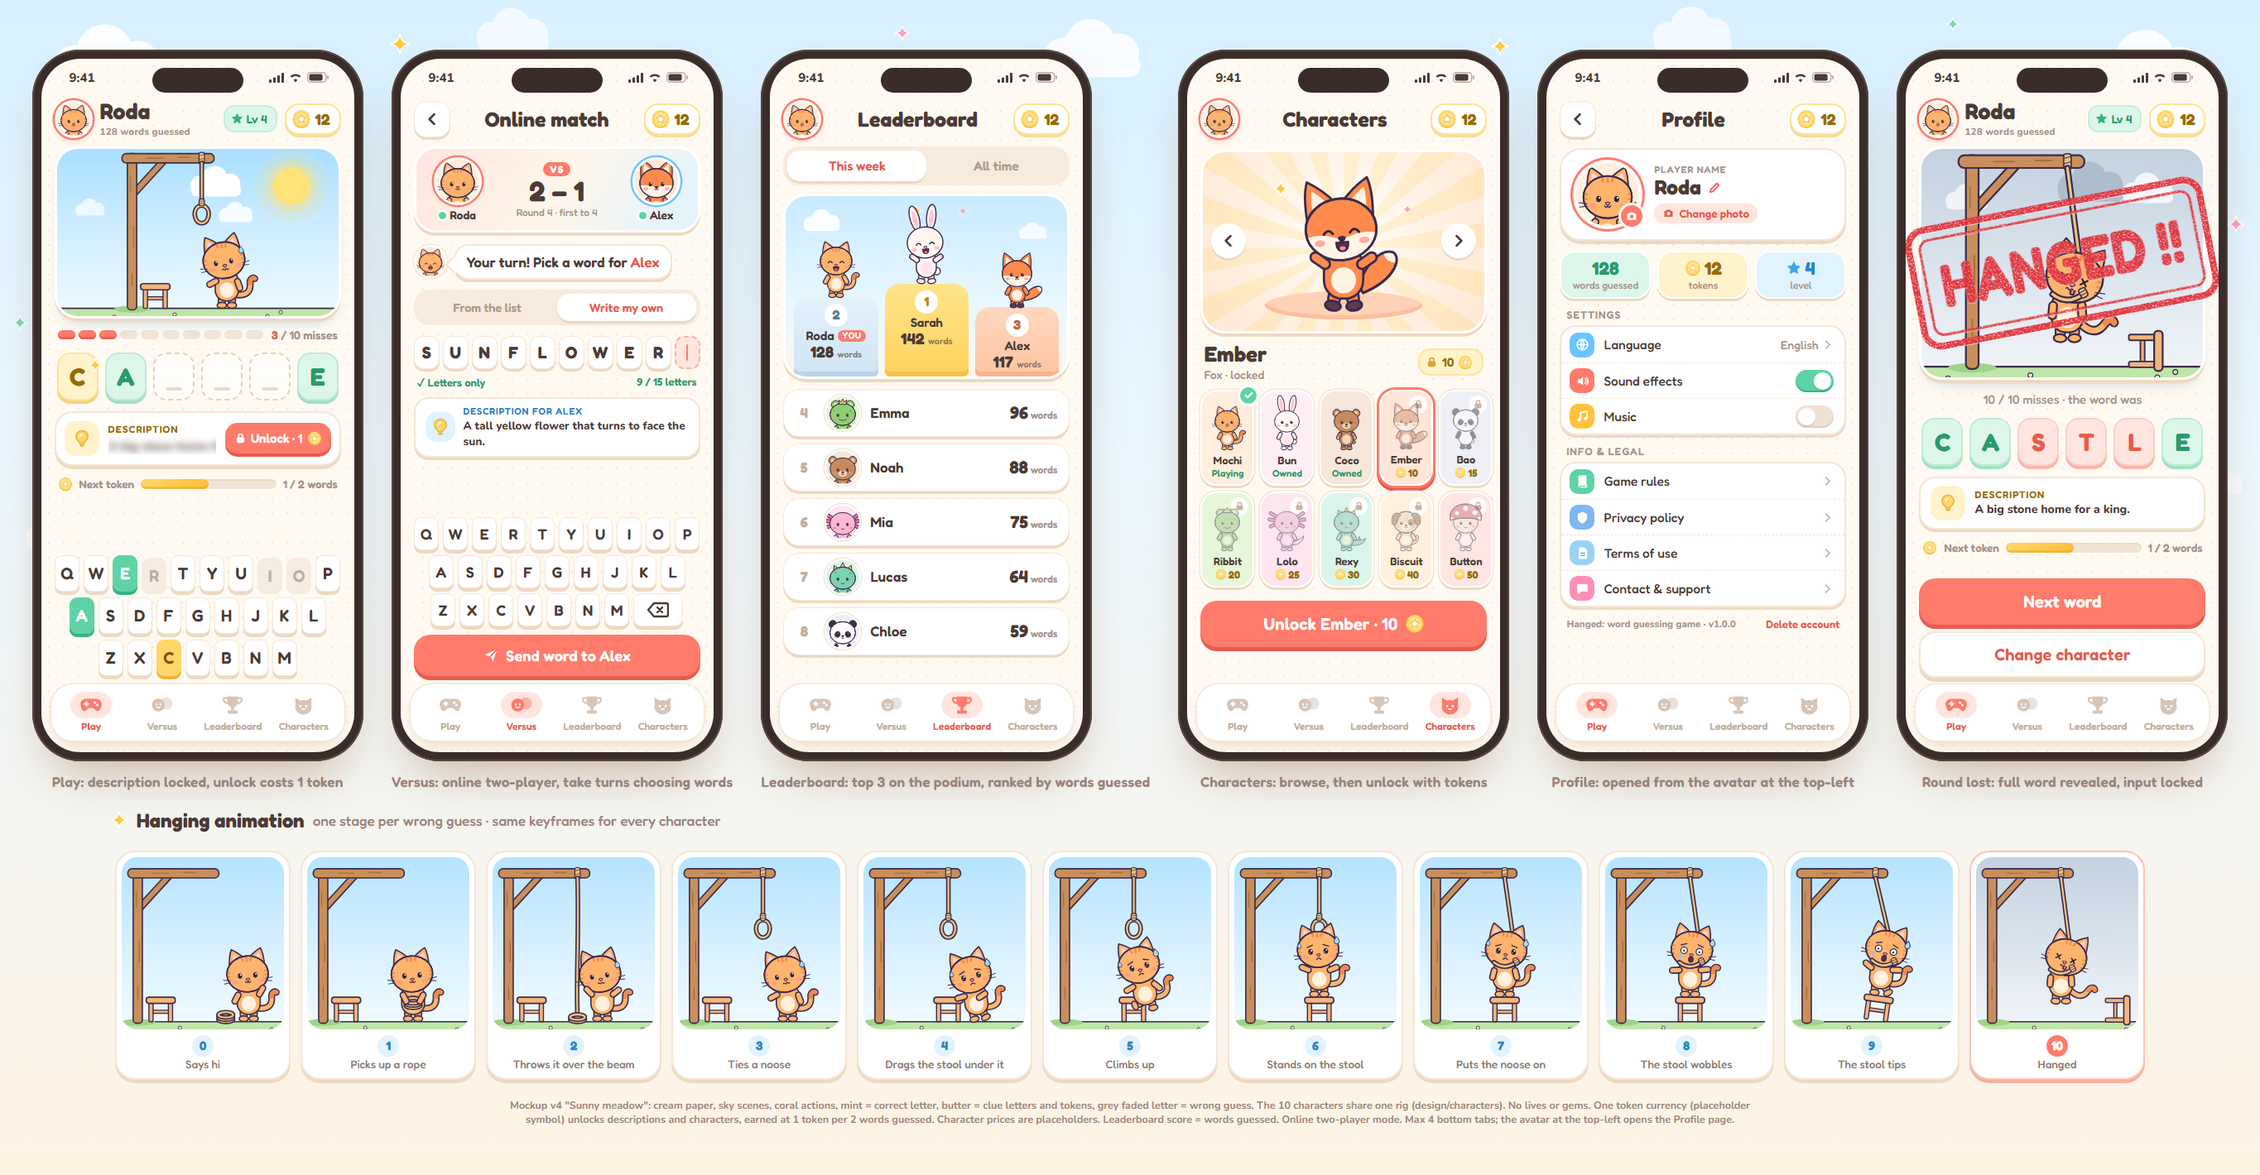
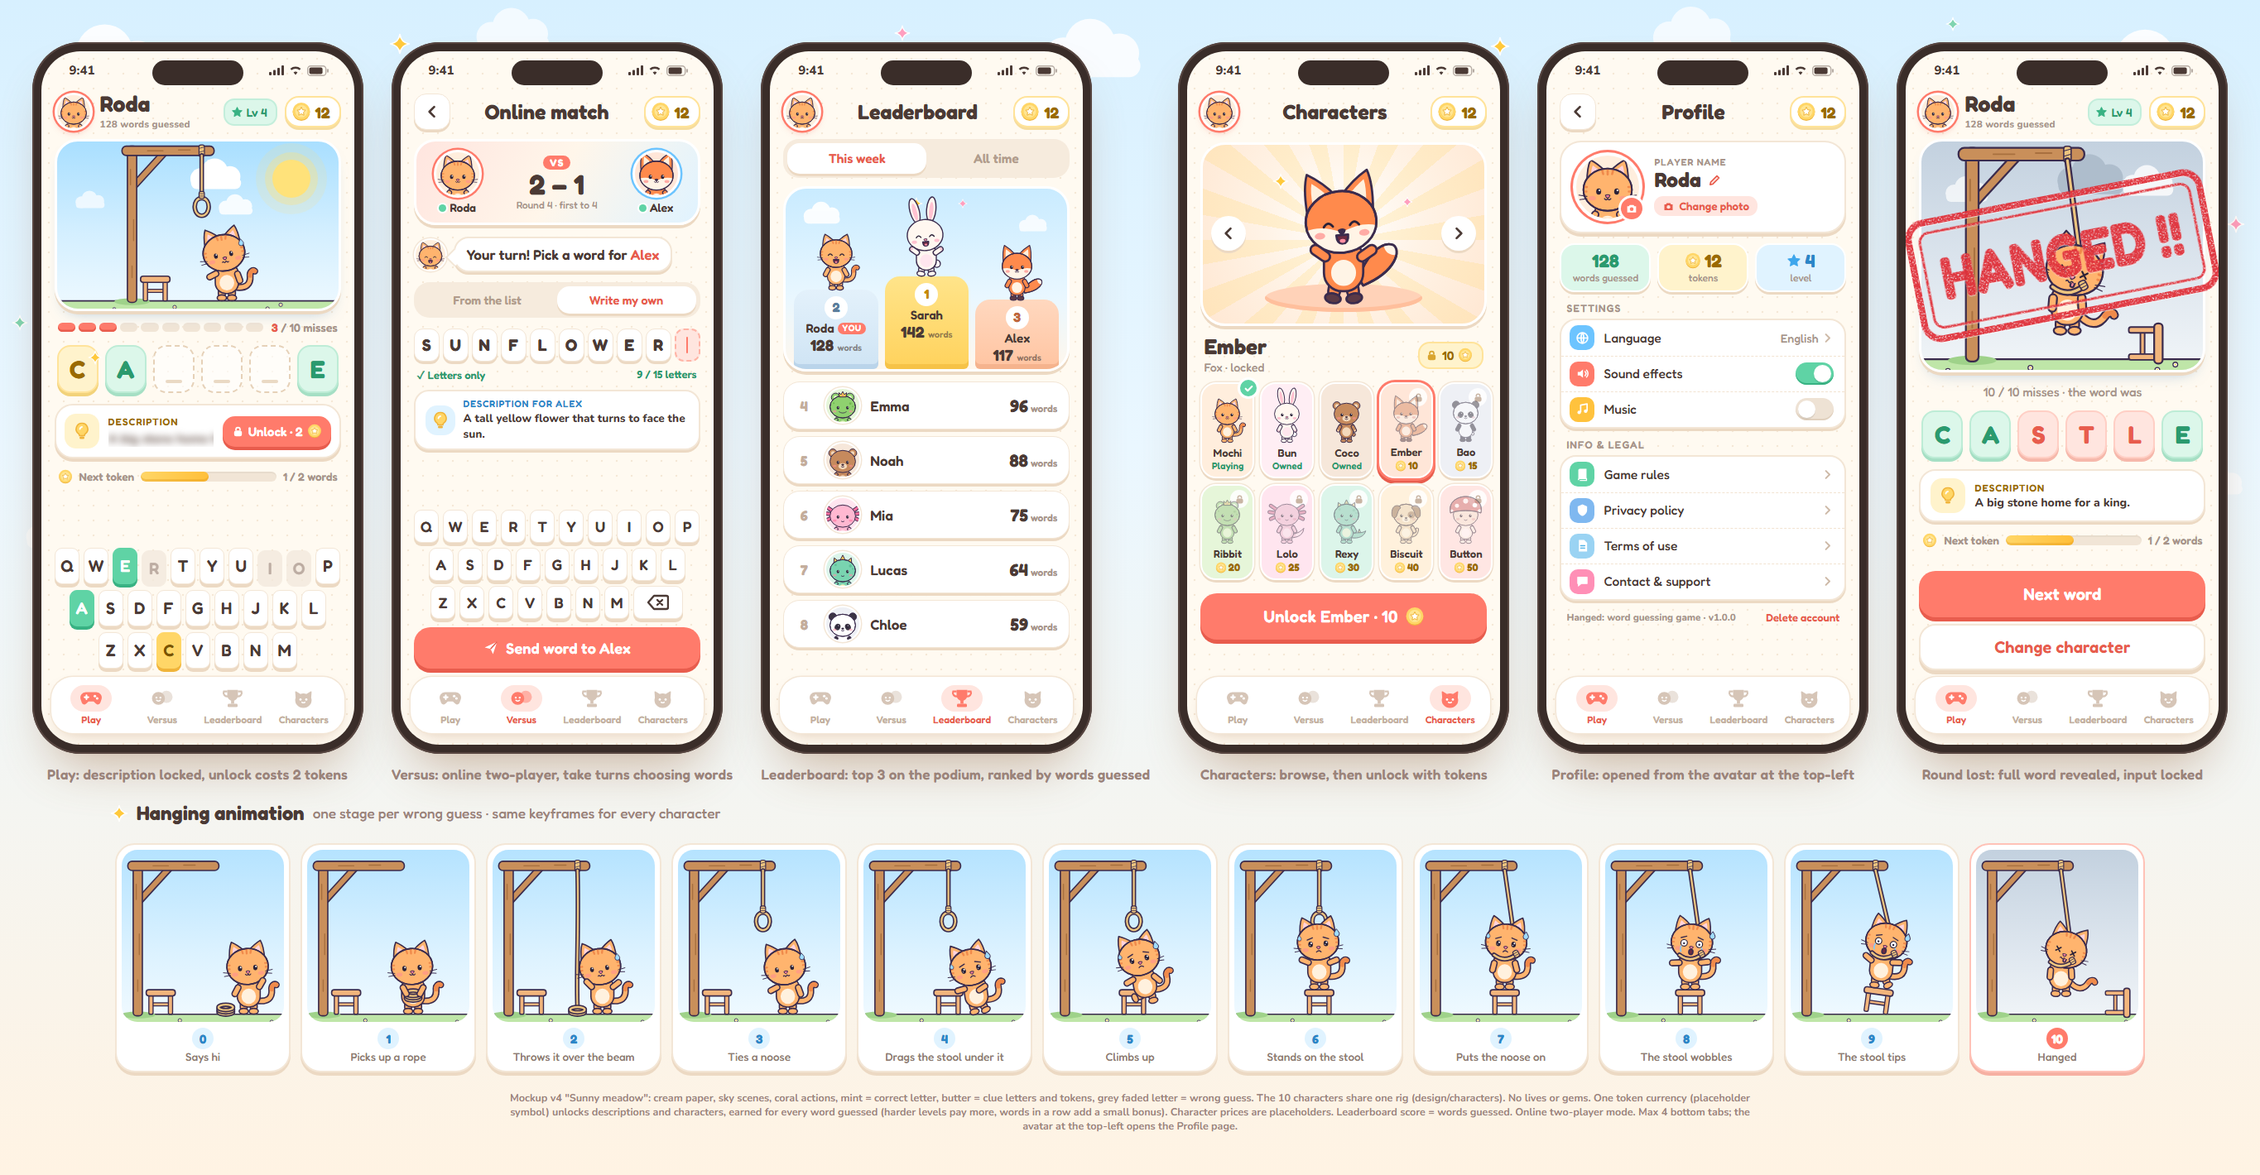
Harder levels pay more tokens; description costs 2
The old "Nth win in a row pays N" ignored difficulty: easy levels are easy to
streak on, so beginners out-earned experts. A win now pays its level's
tokenReward (1 to 4), plus +1 at 3, 6 and 10 words in a row (capped at +3).
The round's own level pays, not the level the win moves up to.

Unlocking a word's description now costs 2 tokens. Mockup re-rendered.

Changed region(s): [[0.0, 0.031, 0.9963, 0.9606], [0.0, 0.031, 0.3114, 0.4338]]

diff --git a/src/game/__tests__/progress.test.ts b/src/game/__tests__/progress.test.ts
@@ -1,4 +1,4 @@
-import { MAX_STREAK_REWARD, STARTING_TOKENS } from '../config';
+import { DESCRIPTION_COST, STARTING_TOKENS, STREAK_BONUS_AT, WORDS_PER_LEVEL } from '../config';
 import { decoyLetters, roundStatus, usedLetters } from '../engine';
 import { LEVELS, levelNumberFor } from '../levels';
 import { gameReducer, GameState, initialState, tokenReward } from '../progress';
@@ -63,31 +63,50 @@ describe('win streak', () => {
     return state;
   }
 
-  it('pays 1, 2, 3… tokens for words guessed in a row', () => {
+  const base = LEVELS[0].tokenReward;
+
+  it('pays the level reward, plus +1 at each streak step', () => {
     let s = initialState();
-    for (let n = 1; n <= 3; n++) {
+    for (let n = 1; n <= STREAK_BONUS_AT[STREAK_BONUS_AT.length - 1]; n++) {
       const before = s.tokens;
       s = winRound(s);
+      const bonus = STREAK_BONUS_AT.filter((k) => n >= k).length;
       expect(s.streak).toBe(n);
-      expect(s.lastTokensEarned).toBe(n);
-      expect(s.tokens).toBe(before + n);
+      expect(s.lastTokensEarned).toBe(base + bonus);
+      expect(s.tokens).toBe(before + base + bonus);
     }
   });
 
-  it('a lost round resets the streak, so the next win pays 1 again', () => {
-    let s = winRound(winRound(initialState()));
+  it('a lost round resets the streak, so the next win pays no bonus', () => {
+    let s = initialState();
+    for (let i = 0; i < STREAK_BONUS_AT[0]; i++) s = winRound(s);
     s = loseRound(s);
     expect(roundStatus(s.round!)).toBe('lost');
     expect(s.streak).toBe(0);
     s = winRound(s);
-    expect(s.lastTokensEarned).toBe(1);
+    expect(s.lastTokensEarned).toBe(base);
   });
 
-  it('stops growing at MAX_STREAK_REWARD', () => {
-    expect(tokenReward(MAX_STREAK_REWARD + 5)).toBe(MAX_STREAK_REWARD);
-    const s = winRound({ ...initialState(), streak: MAX_STREAK_REWARD + 5 });
-    expect(s.streak).toBe(MAX_STREAK_REWARD + 6);
-    expect(s.lastTokensEarned).toBe(MAX_STREAK_REWARD);
+  it('the streak bonus stops growing after the last step', () => {
+    expect(tokenReward(1, 10_000)).toBe(base + STREAK_BONUS_AT.length);
+  });
+
+  it('harder levels never pay less, and the hardest pays more than the easiest', () => {
+    for (let i = 1; i < LEVELS.length; i++) {
+      expect(LEVELS[i].tokenReward).toBeGreaterThanOrEqual(LEVELS[i - 1].tokenReward);
+    }
+    expect(LEVELS[LEVELS.length - 1].tokenReward).toBeGreaterThan(base);
+  });
+
+  it("pays the round's level, not the level the win moves up to", () => {
+    const top = LEVELS[LEVELS.length - 1];
+    let s = winRound({ ...initialState(), wordsGuessed: WORDS_PER_LEVEL - 1 });
+    expect(s.round!.level).toBe(1);
+    expect(levelNumberFor(s.wordsGuessed)).toBe(2);
+    expect(s.lastTokensEarned).toBe(base);
+    s = winRound({ ...initialState(), wordsGuessed: WORDS_PER_LEVEL * LEVELS.length });
+    expect(s.round!.level).toBe(top.level);
+    expect(s.lastTokensEarned).toBe(top.tokenReward);
   });
 });
 
@@ -128,18 +147,18 @@ describe('disabled keys', () => {
 });
 
 describe('description unlock', () => {
-  it('costs one token and never lowers the score', () => {
+  it('costs DESCRIPTION_COST tokens and never lowers the score', () => {
     let s = startRound({ ...initialState(), wordsGuessed: 7 });
     s = gameReducer(s, { type: 'unlockDescription' });
     expect(s.round!.descriptionUnlocked).toBe(true);
-    expect(s.tokens).toBe(STARTING_TOKENS - 1);
+    expect(s.tokens).toBe(STARTING_TOKENS - DESCRIPTION_COST);
     expect(s.wordsGuessed).toBe(7);
     // Unlocking twice is free and does nothing
     expect(gameReducer(s, { type: 'unlockDescription' })).toBe(s);
   });
 
-  it('is refused without tokens', () => {
-    const s = startRound({ ...initialState(), tokens: 0 });
+  it('is refused without enough tokens', () => {
+    const s = startRound({ ...initialState(), tokens: DESCRIPTION_COST - 1 });
     expect(gameReducer(s, { type: 'unlockDescription' })).toBe(s);
   });
 });

diff --git a/src/game/levels.ts b/src/game/levels.ts
@@ -18,20 +18,25 @@ export interface Level {
   /** Share of the letters NOT in the word taken off the keyboard (see engine.disabledCount). Shrinks to 0. */
   disabledRatio: number;
   maxWrong: number;
+  /** Tokens a word won at this level pays before the streak bonus. Never shrinks as levels rise. */
+  tokenReward: number;
 }
 
 export const LEVELS: readonly Level[] = [
-  { level: 1, minLength: 3, maxLength: 5, clueRatio: 0.4, disabledRatio: 0.5, maxWrong: DEFAULT_MAX_WRONG },
-  { level: 2, minLength: 4, maxLength: 6, clueRatio: 0.35, disabledRatio: 0.4, maxWrong: DEFAULT_MAX_WRONG },
-  { level: 3, minLength: 5, maxLength: 7, clueRatio: 0.3, disabledRatio: 0.3, maxWrong: DEFAULT_MAX_WRONG },
-  { level: 4, minLength: 6, maxLength: 8, clueRatio: 0.25, disabledRatio: 0.2, maxWrong: DEFAULT_MAX_WRONG },
-  { level: 5, minLength: 7, maxLength: 9, clueRatio: 0.2, disabledRatio: 0.1, maxWrong: DEFAULT_MAX_WRONG },
-  { level: 6, minLength: 8, maxLength: 11, clueRatio: 0.18, disabledRatio: 0, maxWrong: DEFAULT_MAX_WRONG },
-  { level: 7, minLength: 9, maxLength: 13, clueRatio: 0.15, disabledRatio: 0, maxWrong: 8 },
-  { level: 8, minLength: 10, maxLength: 15, clueRatio: 0.12, disabledRatio: 0, maxWrong: 6 },
+  { level: 1, minLength: 3, maxLength: 5, clueRatio: 0.4, disabledRatio: 0.5, maxWrong: DEFAULT_MAX_WRONG, tokenReward: 1 },
+  { level: 2, minLength: 4, maxLength: 6, clueRatio: 0.35, disabledRatio: 0.4, maxWrong: DEFAULT_MAX_WRONG, tokenReward: 1 },
+  { level: 3, minLength: 5, maxLength: 7, clueRatio: 0.3, disabledRatio: 0.3, maxWrong: DEFAULT_MAX_WRONG, tokenReward: 2 },
+  { level: 4, minLength: 6, maxLength: 8, clueRatio: 0.25, disabledRatio: 0.2, maxWrong: DEFAULT_MAX_WRONG, tokenReward: 2 },
+  { level: 5, minLength: 7, maxLength: 9, clueRatio: 0.2, disabledRatio: 0.1, maxWrong: DEFAULT_MAX_WRONG, tokenReward: 3 },
+  { level: 6, minLength: 8, maxLength: 11, clueRatio: 0.18, disabledRatio: 0, maxWrong: DEFAULT_MAX_WRONG, tokenReward: 3 },
+  { level: 7, minLength: 9, maxLength: 13, clueRatio: 0.15, disabledRatio: 0, maxWrong: 8, tokenReward: 4 },
+  { level: 8, minLength: 10, maxLength: 15, clueRatio: 0.12, disabledRatio: 0, maxWrong: 6, tokenReward: 4 },
 ];
 
 export const levelNumberFor = (wordsGuessed: number) =>
   Math.min(LEVELS.length, 1 + Math.floor(wordsGuessed / WORDS_PER_LEVEL));
 
-export const levelFor = (wordsGuessed: number): Level => LEVELS[levelNumberFor(wordsGuessed) - 1];
+/** The row for a level number (a round's snapshotted `level`), clamped to the table. */
+export const levelByNumber = (level: number): Level => LEVELS[Math.min(LEVELS.length, Math.max(1, level)) - 1];
+
+export const levelFor = (wordsGuessed: number): Level => levelByNumber(levelNumberFor(wordsGuessed));

diff --git a/design/ui-mockup.html b/design/ui-mockup.html
@@ -218,7 +218,7 @@
 <div class="row" id="row"></div>
 <div class="h3" id="h3"></div>
 <div class="stages" id="stages"></div>
-<div class="note">Mockup v4 "Sunny meadow": cream paper, sky scenes, coral actions, mint = correct letter, butter = clue letters and tokens, grey faded letter = wrong guess. The 10 characters share one rig (design/characters). No lives or gems. One token currency (placeholder symbol) unlocks descriptions and characters, earned at 1 token per 2 words guessed. Character prices are placeholders. Leaderboard score = words guessed. Online two-player mode. Max 4 bottom tabs; the avatar at the top-left opens the Profile page.</div>
+<div class="note">Mockup v4 "Sunny meadow": cream paper, sky scenes, coral actions, mint = correct letter, butter = clue letters and tokens, grey faded letter = wrong guess. The 10 characters share one rig (design/characters). No lives or gems. One token currency (placeholder symbol) unlocks descriptions and characters, earned for every word guessed (harder levels pay more, words in a row add a small bonus). Character prices are placeholders. Leaderboard score = words guessed. Online two-player mode. Max 4 bottom tabs; the avatar at the top-left opens the Profile page.</div>
 
 <script src="characters/rig.js"></script>
 <script src="characters/hanging.js"></script>
@@ -305,12 +305,12 @@ const play = frame(`
     <div class="desc">
       <div class="bulb">${bulbI}</div>
       <div style="min-width:0;overflow:hidden"><div class="chip">DESCRIPTION</div><div class="blur">A big stone home for a king</div></div>
-      <div class="unlock">${lockI(15,'#fff')}Unlock · 1 ${coin(18)}</div>
+      <div class="unlock">${lockI(15,'#fff')}Unlock · 2 ${coin(18)}</div>
     </div>
     ${tokbar}
     ${keyboard({C:'clue',A:'ok',E:'ok',R:'no',O:'no',I:'no'})}
   </div>
-  ${tabs('play')}`, 'Play: description locked, unlock costs 1 token');
+  ${tabs('play')}`, 'Play: description locked, unlock costs 2 tokens');
 
 // 2. Versus
 const versus = frame(`

diff --git a/src/game/progress.ts b/src/game/progress.ts
@@ -8,12 +8,12 @@
 import {
   DEFAULT_LANGUAGE,
   DESCRIPTION_COST,
-  MAX_STREAK_REWARD,
   RECENT_WORDS_MEMORY,
   STARTING_TOKENS,
+  STREAK_BONUS_AT,
 } from './config';
 import { createRound, guess, Round, roundStatus, unlockDescription } from './engine';
-import { levelFor } from './levels';
+import { levelByNumber, levelFor } from './levels';
 import { pickWord, wordById, WordEntry } from './words';
 
 export interface GameState {
@@ -52,8 +52,12 @@ export type GameAction =
   | { type: 'guess'; letter: string }
   | { type: 'unlockDescription' };
 
-/** Tokens paid by the win that brings the streak to `streak`: 1, 2, 3… up to MAX_STREAK_REWARD. */
-export const tokenReward = (streak: number) => Math.min(streak, MAX_STREAK_REWARD);
+/**
+ * Tokens paid by a win at `level` that brings the streak to `streak`: the
+ * level's pay, so harder words pay more, plus +1 per STREAK_BONUS_AT step reached.
+ */
+export const tokenReward = (level: number, streak: number) =>
+  levelByNumber(level).tokenReward + STREAK_BONUS_AT.filter((n) => streak >= n).length;
 
 type LegacySave = GameState & { wordsTowardToken?: number; lastTokenEarned?: boolean };
 
@@ -109,7 +113,8 @@ export function gameReducer(state: GameState, action: GameAction): GameState {
       if (status === 'lost') return { ...state, round, streak: 0 };
       if (status !== 'won') return { ...state, round };
       const streak = state.streak + 1;
-      const earned = tokenReward(streak);
+      // The round's own level pays, not the level this win may move the player up to.
+      const earned = tokenReward(round.level, streak);
       return {
         ...state,
         round,

diff --git a/src/game/config.ts b/src/game/config.ts
@@ -15,14 +15,14 @@ export const MIN_WORD_LENGTH = 1;
 export const MAX_WORD_LENGTH = 15;
 
 /**
- * Words guessed in a row pay more: the Nth win of a streak pays N tokens
- * (progress.tokenReward), and a lost round resets the streak.
- * PLACEHOLDER: the reward stops growing at this many tokens.
+ * A won word pays its level's tokenReward (levels.ts), plus +1 token for each
+ * of these streak lengths reached (progress.tokenReward). A lost round resets
+ * the streak. PLACEHOLDER: the steps, and so the bonus cap (+3).
  */
-export const MAX_STREAK_REWARD = 10;
+export const STREAK_BONUS_AT: readonly number[] = [3, 6, 10];
 
-/** Unlocking a word's description costs 1 token. */
-export const DESCRIPTION_COST = 1;
+/** Unlocking a word's description costs 2 tokens. */
+export const DESCRIPTION_COST = 2;
 
 /** PLACEHOLDER: tokens a brand-new player starts with. */
 export const STARTING_TOKENS = 3;

diff --git a/Context/progression-and-tokens.md b/Context/progression-and-tokens.md
@@ -9,21 +9,26 @@ Tests: [src/game/__tests__/progress.test.ts](../src/game/__tests__/progress.test
 ## Scoring happens inside the winning guess
 
 `gameReducer`'s `guess` case scores in the **same step** that makes the round
-`won`. It adds +1 to `wordsGuessed` and to `streak`, and pays `tokenReward(streak)` tokens.
+`won`. It adds +1 to `wordsGuessed` and to `streak`, and pays `tokenReward(round.level, streak)` tokens.
 The step that makes a round `lost` resets `streak` to 0. A finished round ignores further guesses (the engine
 returns the same round), so **a word can never be scored twice**. Don't move
 scoring into an effect or a "round over" screen. Re-renders and app restarts
 would then count it again.
 
 - **Score = `wordsGuessed`** (the leaderboard number). Spending tokens never lowers it.
-- **Tokens: words in a row pay more.** The Nth win of a streak pays N tokens
-  (`tokenReward(streak)` = `min(streak, MAX_STREAK_REWARD)`), so 1, 2, 3… A lost round
-  resets `streak` to 0 and the next win pays 1 again. Nothing else breaks a streak: the round in
-  progress is saved, so restarting the app can't skip a word, and the description unlock doesn't count.
-  **`MAX_STREAK_REWARD` (10) is a PLACEHOLDER** cap so a long streak on easy words can't flood
-  the economy before character prices exist. `streak` is saved; an older save gets 0 from
-  `initialState()` when it loads.
-- Tokens are spent only on a description (`DESCRIPTION_COST` = 1) and, later, on characters.
+- **Tokens: harder words pay more, and a streak adds a small bonus.** A win pays its level's
+  `tokenReward` (the `LEVELS` column: 1, 1, 2, 2, 3, 3, 4, 4), plus +1 for each `STREAK_BONUS_AT`
+  step the streak has reached (3, 6, 10 in a row, so the bonus is capped at +3).
+  **Why:** the old "Nth win in a row pays N" ignored difficulty. Easy levels are easy to streak on,
+  so a new player hit the cap on level-1 words while a level-8 player (6 wrong guesses) rarely
+  could. That made easy words worth more than hard ones. Keep both rules: the level pay never
+  shrinks as levels rise, and the streak bonus stays small next to it (tests check the first).
+  - The **round's** snapshotted `level` pays, not the level the win moves the player up to.
+  - A lost round resets `streak` to 0, so the next win pays the base again. Nothing else breaks a
+    streak: the round in progress is saved, so restarting the app can't skip a word, and the
+    description unlock doesn't count. `streak` is saved; an older save gets 0 from `initialState()`.
+  - **The `tokenReward` values and `STREAK_BONUS_AT` are PLACEHOLDERS** until character prices exist.
+- Tokens are spent only on a description (`DESCRIPTION_COST` = 2) and, later, on characters.
 - **Old saves**: the "N words per token" rate (5, then 2, then 1) and its `wordsTowardToken`
   field and "Next token" bar are gone, because a progress bar can't show payouts that vary.
   `hydrate` pays a leftover `wordsTowardToken` as 1 token per word (the last rate), maps the old
@@ -42,7 +47,8 @@ is `1 + floor(wordsGuessed / WORDS_PER_LEVEL)`, capped at the last level, so it
 **never drops back down**. Each `LEVELS` row sets the word-length range, the
 `clueRatio`, the `disabledRatio` (share of the letters not in the word taken off the
 keyboard: 0.5 at level 1, minus 0.1 per level, 0 from level 6; a test keeps it
-non-increasing and ending at 0) and `maxWrong` (10 until level 7, then 8, then 6).
+non-increasing and ending at 0), `maxWrong` (10 until level 7, then 8, then 6) and
+`tokenReward` (see Tokens above). `levelByNumber` reads a row by a round's `level`.
 
 **Every number in `LEVELS`, `WORDS_PER_LEVEL` and `STARTING_TOKENS` (3) is a
 PLACEHOLDER.** The owner hasn't answered the clue-formula, progression and

diff --git a/CLAUDE.md b/CLAUDE.md
@@ -93,7 +93,7 @@ A level's difficulty is set by:
 ### Word descriptions
 
 - **Every word** has a short **description/hint**. The mockup shows a "CLUE" card such as *"A greeting used when meeting someone."*
-- The description is **always hidden** when a round starts. The player can unlock it by spending **one token** (see Tokens below). It never costs a wrong guess.
+- The description is **always hidden** when a round starts. The player can unlock it by spending **two tokens** (see Tokens below). It never costs a wrong guess.
 
 ### Hint words
 
@@ -115,9 +115,9 @@ A level's difficulty is set by:
 
 ### Tokens (the only currency)
 - The player has a **token** balance. "Token" is a placeholder name until the owner picks a symbol and a name.
-- **Earning**: every word guessed correctly pays tokens, and **words guessed in a row pay more**: the 1st win of a streak pays 1 token, the 2nd pays 2, the 3rd pays 3, and so on. Losing a round resets the streak, so the next win pays 1 again.
+- **Earning**: every word guessed correctly pays tokens. **Harder levels pay more per word** (the owner chose this so easy words, which are easy to guess in a row, can't out-earn hard ones). **Words guessed in a row add a small bonus** on top: +1 token from 3 in a row, +2 from 6, +3 from 10. Losing a round resets the streak, so the next win pays no bonus.
 - **Spending**: tokens are used for exactly two things:
-  1. unlocking a word's description (1 token)
+  1. unlocking a word's description (2 tokens)
   2. unlocking characters (each character has a price in tokens)
 - There are **no gems** in the game. The mockup shows gems, but ignore them.
 - The mockup puts a heart counter in the top bar. That spot becomes the token counter, with a **different symbol, not a heart**. Don't use hearts for it, because hearts suggest lives.
@@ -197,7 +197,7 @@ How the original works (`Pendu/Form1.cs`): one player types the word, and the wo
 ## Open questions (ask the owner, don't guess)
 
 - **Tokens**: what symbol and name should they have? Does a new player start with any? How many tokens does each character cost?
-- **Streak reward**: should it stop growing at some point? It's capped at 10 tokens per word for now (placeholder).
+- **Token amounts**: how many tokens should each level pay, and at which streak lengths should the bonus grow? Placeholders for now: 1 to 4 tokens per level, +1 at 3, 6 and 10 in a row.
 - **Clue formula**: exactly how many letters are revealed for each word length and difficulty level?
 - **Progression**: what moves the player up a level (a number of words won, a streak)? How many levels are there? Can the player drop back down after losing?
 - **Accents** in languages other than English: strip them to A–Z, add accented keys, or leave those words out?
